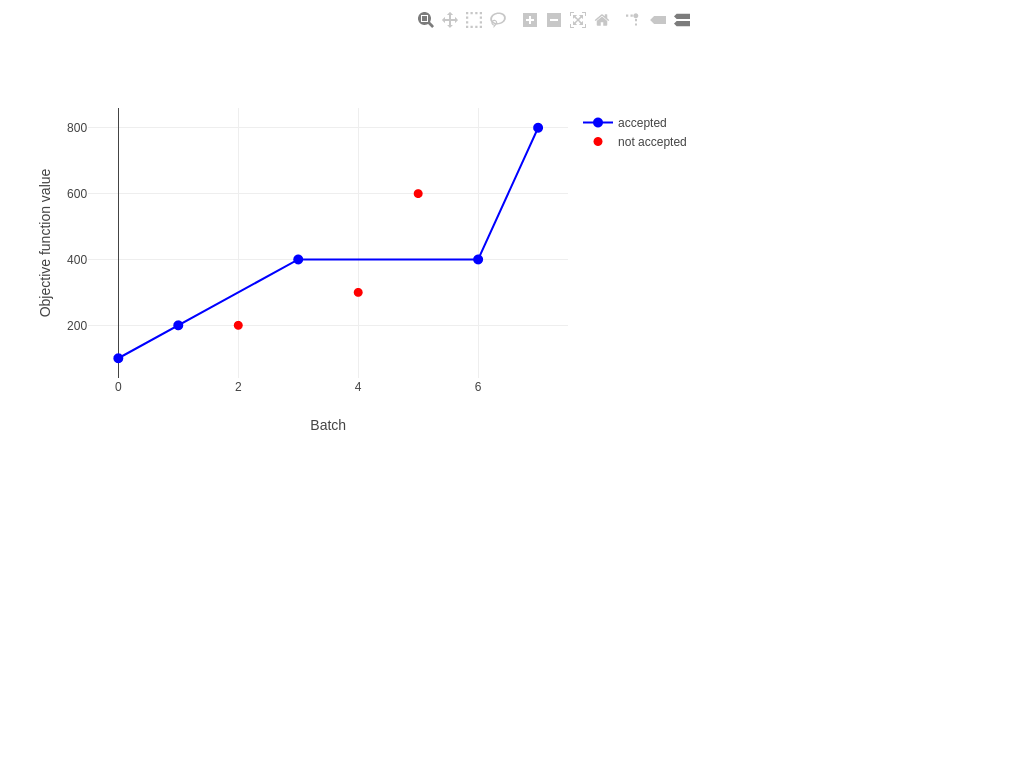
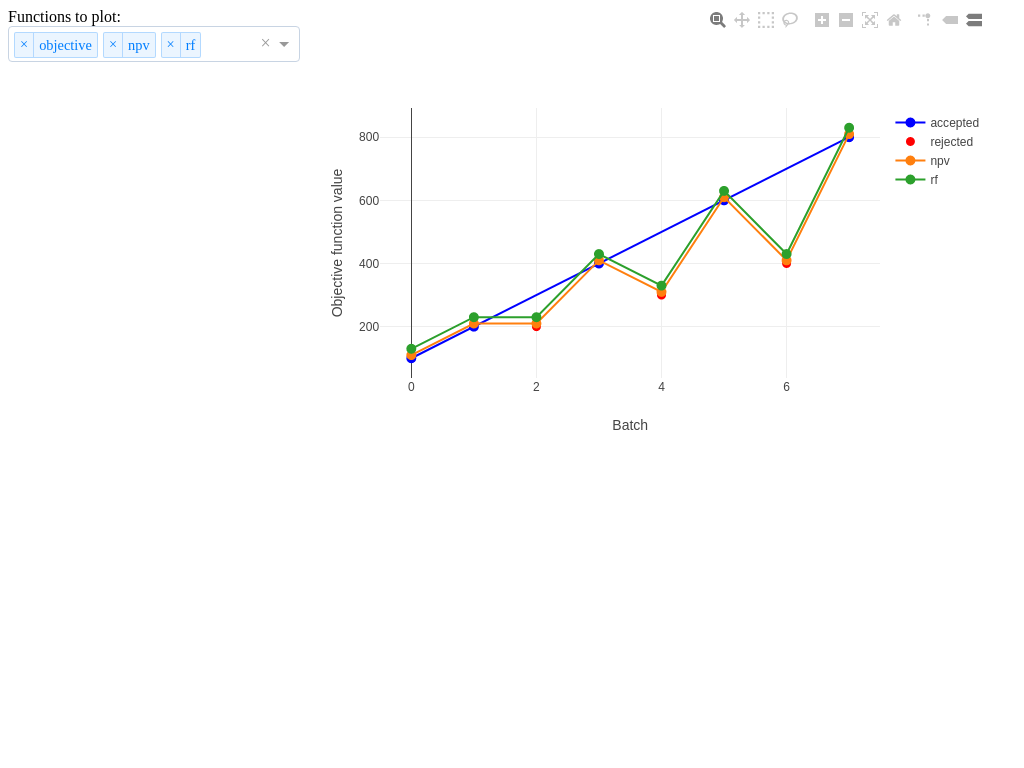
Add component objective functions for multi objective case

diff --git a/everviz/plugins/objectives_plot/single_objectives_plot.py b/everviz/plugins/objectives_plot/single_objectives_plot.py
@@ -1,11 +1,13 @@
 from uuid import uuid4
 from pathlib import Path
+from itertools import cycle
 import pkg_resources
 
 import dash_html_components as html
 import dash_core_components as dcc
 
 import plotly.graph_objs as go
+from plotly.colors import DEFAULT_PLOTLY_COLORS
 
 from dash.dependencies import Output, Input
 from webviz_config import WebvizPluginABC
@@ -25,10 +27,9 @@ class SingleObjectivesPlot(WebvizPluginABC):
 
         self.graph_id = f"graph-{uuid4()}"
         self.div_id = f"div-{uuid4()}"
-
+        self.function_dropdown_id = f"dropdown-{uuid4()}"
         self.csv_file = csv_file
         self.set_callbacks(app)
-
         ASSETS_DIR = Path(pkg_resources.resource_filename("everviz", "assets"))
         WEBVIZ_ASSETS.add(ASSETS_DIR / "axis_customization.css")
 
@@ -39,18 +40,43 @@ class SingleObjectivesPlot(WebvizPluginABC):
 
     @property
     def layout(self):
+        data = get_data(self.csv_file)
+        exclude = ["batch", "accepted"]
+        functions = [name for name in data.columns if name not in exclude]
+        function_dropdown_options = [{"label": i, "value": i} for i in functions]
+        func_elements = [
+            html.Label("Functions to plot:"),
+            dcc.Dropdown(
+                id=self.function_dropdown_id,
+                options=function_dropdown_options,
+                multi=True,
+                value=[functions[0]],
+            ),
+        ]
         return html.Div(
             [
-                dcc.Graph(
-                    id=self.graph_id,
-                    config={
-                        "modeBarButtonsToRemove": ["toImage"],
-                        "displaylogo": False,
+                html.Div(
+                    func_elements,
+                    style={
+                        "width": "29%",
+                        "display": "inline-block",
+                        "vertical-align": "top",
                     },
-                )
-            ],
-            id=self.div_id,
-            style={"width": "69%", "display": "inline-block"},
+                ),
+                html.Div(
+                    [
+                        dcc.Graph(
+                            id=self.graph_id,
+                            config={
+                                "modeBarButtonsToRemove": ["toImage"],
+                                "displaylogo": False,
+                            },
+                        )
+                    ],
+                    id=self.div_id,
+                    style={"width": "69%", "display": "inline-block"},
+                ),
+            ]
         )
 
     def set_callbacks(self, app):
@@ -68,28 +94,49 @@ class SingleObjectivesPlot(WebvizPluginABC):
             return ""
 
         @app.callback(
-            Output(self.graph_id, "figure"), [Input(self.div_id, "children")],
+            Output(self.graph_id, "figure"),
+            [Input(self.function_dropdown_id, "value"), Input(self.div_id, "children")],
         )
-        def update_graph(_):
+        def update_graph(function_list, _):
+            if function_list is None:
+                return {}
+
             data = get_data(self.csv_file)
-            accepted_data = data[data.accepted == True]  # pylint: disable=C0121
-            not_accepted_data = data[data.accepted == False]  # pylint: disable=C0121
-            traces = [
-                go.Scatter(
-                    y=accepted_data.value,
-                    x=accepted_data.batch,
-                    mode="lines+markers",
-                    marker={"color": "blue", "size": 10},
-                    name="accepted",
-                ),
-                go.Scatter(
-                    y=not_accepted_data.value,
-                    x=not_accepted_data.batch,
-                    mode="markers",
-                    marker={"color": "red", "size": 9},
-                    name="not accepted",
-                ),
-            ]
+            accepted_data = data[data.accepted == 1]
+            not_accepted_data = data[data.accepted == 0]
+
+            colors = cycle(DEFAULT_PLOTLY_COLORS)
+            traces = []
+            for name, color in zip(function_list, colors):
+                if name != "objective":
+                    traces.append(
+                        go.Scatter(
+                            y=data[name],
+                            x=data.batch,
+                            mode="lines+markers",
+                            marker={"color": color, "size": 10},
+                            name=name,
+                        ),
+                    )
+                else:
+                    traces.extend(
+                        [
+                            go.Scatter(
+                                y=accepted_data[name],
+                                x=accepted_data.batch,
+                                mode="lines+markers",
+                                marker={"color": "blue", "size": 10},
+                                name="accepted",
+                            ),
+                            go.Scatter(
+                                y=not_accepted_data[name],
+                                x=not_accepted_data.batch,
+                                mode="markers",
+                                marker={"color": "red", "size": 9},
+                                name="rejected",
+                            ),
+                        ]
+                    )
 
             return {
                 "data": traces,

diff --git a/tests/unit/test_single_objective_plot_layout.py b/tests/unit/test_single_objective_plot_layout.py
@@ -13,14 +13,14 @@ def test_single_objective_plot_layout(
     app, dash_duo, mocker, caplog, tmpdir, assert_equal_images
 ):
     test_data = [
-        {"batch": 0, "value": 100, "accepted": True},
-        {"batch": 1, "value": 200, "accepted": True},
-        {"batch": 2, "value": 200, "accepted": False},
-        {"batch": 3, "value": 400, "accepted": True},
-        {"batch": 4, "value": 300, "accepted": False},
-        {"batch": 5, "value": 600, "accepted": False},
-        {"batch": 6, "value": 400, "accepted": True},
-        {"batch": 7, "value": 800, "accepted": True},
+        {"batch": 0, "objective": 100, "accepted": 1, "npv": 110, "rf": 130},
+        {"batch": 1, "objective": 200, "accepted": 1, "npv": 210, "rf": 230},
+        {"batch": 2, "objective": 200, "accepted": 0, "npv": 210, "rf": 230},
+        {"batch": 3, "objective": 400, "accepted": 1, "npv": 410, "rf": 430},
+        {"batch": 4, "objective": 300, "accepted": 0, "npv": 310, "rf": 330},
+        {"batch": 5, "objective": 600, "accepted": 1, "npv": 610, "rf": 630},
+        {"batch": 6, "objective": 400, "accepted": 0, "npv": 410, "rf": 430},
+        {"batch": 7, "objective": 800, "accepted": 1, "npv": 810, "rf": 830},
     ]
 
     def mock_get_data(_):
@@ -36,24 +36,28 @@ def test_single_objective_plot_layout(
     dash_duo.driver.set_window_size(1024, 768)
     dash_duo.start_server(app)
 
-    reference_image = Image.open(
-        os.path.join(
-            everviz.__path__[0],
-            "..",
-            "test-data",
-            "objectives",
-            "single_objective_layout_headless.png",
-        )
+    dash_duo.select_dcc_dropdown("#{}".format(plugin.function_dropdown_id), "npv")
+    dash_duo.select_dcc_dropdown("#{}".format(plugin.function_dropdown_id), "rf")
+
+    ref_image_path = os.path.join(
+        everviz.__path__[0],
+        "..",
+        "test-data",
+        "objectives",
+        "single_objective_layout_headless.png",
     )
+    ref_image = Image.open(ref_image_path)
 
     with tmpdir.as_cwd():
         time.sleep(1)
         dash_duo.driver.save_screenshot("example_snapshot.png")
         screen_shot = Image.open("example_snapshot.png")
 
-    if screen_shot.size != reference_image.size:
+    if screen_shot.size != ref_image.size:
         pytest.skip("Reference image size does not match {}".format(screen_shot.size))
-    assert_equal_images(reference_image, screen_shot, threshold=0.5)
+    assert_equal_images(ref_image, screen_shot, threshold=0.5)
+
+    dash_duo.clear_input("#{}".format(plugin.function_dropdown_id))
 
     for record in caplog.records:
         assert record.levelname != "ERROR"

diff --git a/tests/unit/test_single_objective_data.py b/tests/unit/test_single_objective_data.py
@@ -1,48 +1,14 @@
-import pandas as pd
-
-import pytest
-from everviz.pages.objectives import (
-    _total_objective_values_from_api,
-    _single_objective_title,
-)
-
-TEST_DATA = [
-    {"batch": 0, "value": 100, "accepted": True},
-    {"batch": 1, "value": 200, "accepted": True},
-    {"batch": 2, "value": 200, "accepted": False},
-    {"batch": 3, "value": 400, "accepted": True},
-    {"batch": 4, "value": 300, "accepted": False},
-    {"batch": 5, "value": 600, "accepted": False},
-    {"batch": 6, "value": 400, "accepted": True},
-    {"batch": 7, "value": 800, "accepted": True},
-]
+from everviz.pages.objectives import _single_objective_title
 
 
-@pytest.fixture
-def api_mock(mocker):
-    api = mocker.Mock()
-    single_objectives = [
-        {"batch": data["batch"], "value": data["value"]} for data in TEST_DATA
-    ]
-    api.single_objective_values = single_objectives
-    accepted_batches = [data["batch"] for data in TEST_DATA if data["accepted"]]
-    api.accepted_batches = accepted_batches
-    return api
-
-
-def test_total_objective_values_from_api(api_mock):
-    result = _total_objective_values_from_api(api_mock)
-    expected = pd.DataFrame(TEST_DATA)
-    assert expected.equals(result)
-
-
-def test_single_objective_title(api_mock):
+def test_single_objective_title(mocker):
+    api_mock = mocker.Mock()
     api_mock.objective_function_names = ["npv"]
     result = _single_objective_title(api_mock)
-    expected = "Objective function"
+    expected = "Objective"
     assert result == expected
 
     api_mock.objective_function_names = ["npv", "rf"]
     result = _single_objective_title(api_mock)
-    expected = "Weighted objective function"
+    expected = "Objective functions"
     assert result == expected

diff --git a/everviz/pages/objectives.py b/everviz/pages/objectives.py
@@ -14,11 +14,7 @@ def _objective_values_from_api(api):
 
 
 def _total_objective_values_from_api(api):
-    single_objectives = api.single_objective_values
-    accepted_batches = api.accepted_batches
-    for objective in single_objectives:
-        objective.update({"accepted": objective["batch"] in accepted_batches})
-    return pd.DataFrame(single_objectives)
+    return pd.DataFrame(api.single_objective_values)
 
 
 def _objective_values(data):
@@ -67,8 +63,8 @@ def _set_up_data_sources(api):
 def _single_objective_title(api):
     nr_function = len(api.objective_function_names)
     if nr_function > 1:
-        return "Weighted objective function"
-    return "Objective function"
+        return "Objective functions"
+    return "Objective"
 
 
 def page_layout(api):

diff --git a/tests/unit/test_control_plot_data.py b/tests/unit/test_control_plot_data.py
@@ -31,13 +31,13 @@ controls = [
     ],
 ]
 objectives = [
-    [{"batch": 0, "value": 1,},],
-    [{"batch": 0, "value": 1,}, {"batch": 1, "value": 2,},],
+    [{"batch": 0, "objective": 1,},],
+    [{"batch": 0, "objective": 1,}, {"batch": 1, "objective": 2,},],
     [
-        {"batch": 0, "value": 1,},
-        {"batch": 1, "value": 2,},
-        {"batch": 2, "value": 4,},  # best value
-        {"batch": 3, "value": 0,},
+        {"batch": 0, "objective": 1,},
+        {"batch": 1, "objective": 2,},
+        {"batch": 2, "objective": 4,},  # best value
+        {"batch": 3, "objective": 0,},
     ],
 ]
 

diff --git a/everviz/pages/deltaplot.py b/everviz/pages/deltaplot.py
@@ -36,7 +36,7 @@ def _set_up_data_sources(api):
     everviz_path = os.path.join(everest_folder, "everviz")
 
     objectives_df = pd.DataFrame(api.single_objective_values)
-    best_batch = objectives_df.batch[objectives_df.value.idxmax()]
+    best_batch = objectives_df.batch[objectives_df.objective.idxmax()]
 
     logger.info("Generating objective delta plot source data file")
     objective_csv_path = os.path.join(everviz_path, "objective_delta_values.csv")

diff --git a/everviz/pages/controls.py b/everviz/pages/controls.py
@@ -15,7 +15,7 @@ def _control_data_per_batch(api):
 
 def _control_data_initial_vs_best(api):
     objectives_df = pd.DataFrame(api.single_objective_values)
-    best_batch = objectives_df.batch[objectives_df.value.idxmax()]
+    best_batch = objectives_df.batch[objectives_df.objective.idxmax()]
     data = pd.DataFrame(api.control_values)
 
     # Keep only controls associated with initial and best batches

diff --git a/tests/unit/test_delta_plot_data.py b/tests/unit/test_delta_plot_data.py
@@ -35,7 +35,7 @@ _SUMMARY = {
     "key2": range(10, 130, 10),
 }
 
-_SINGLE_OBJECTIVES = {"batch": [0, 2], "value": [0.0, 1.0]}
+_SINGLE_OBJECTIVES = {"batch": [0, 2], "objective": [0.0, 1.0]}
 
 
 def test_objective_values_data_frame(mocker):
